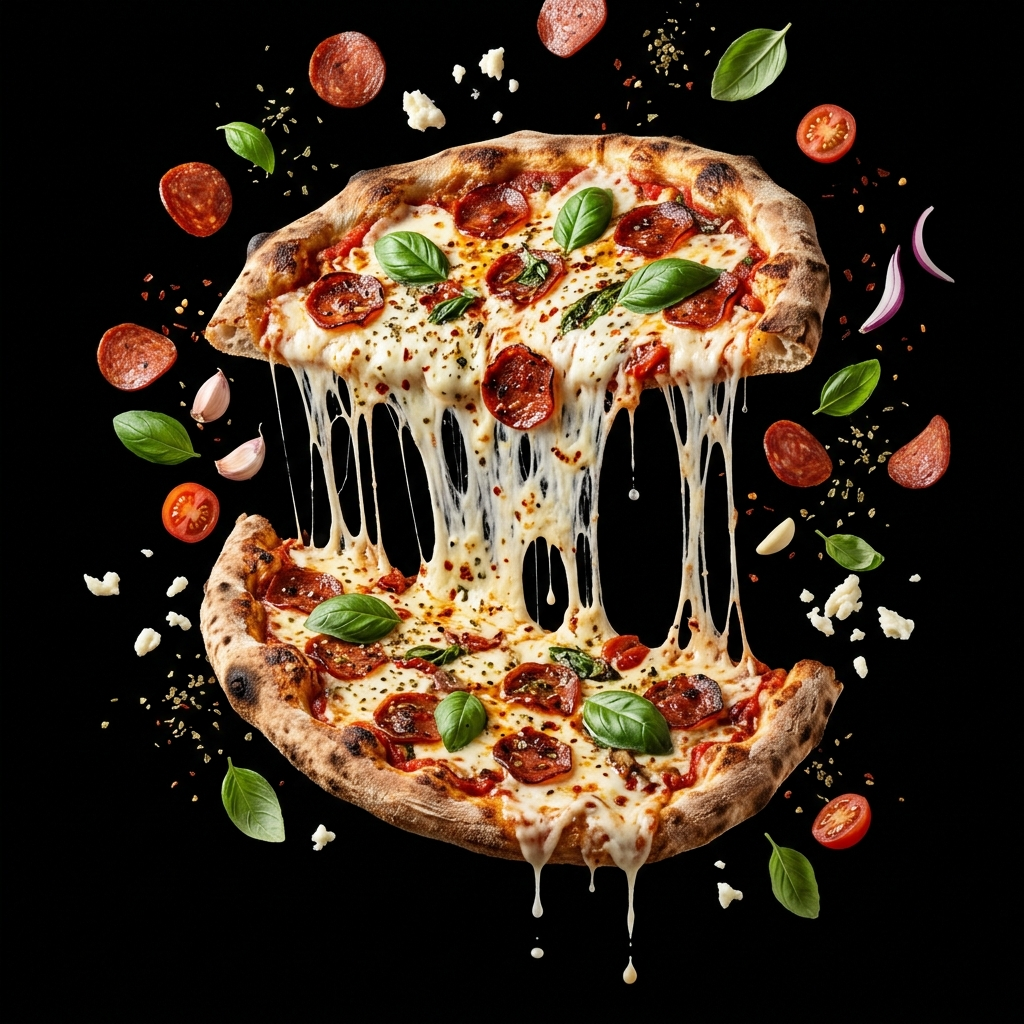
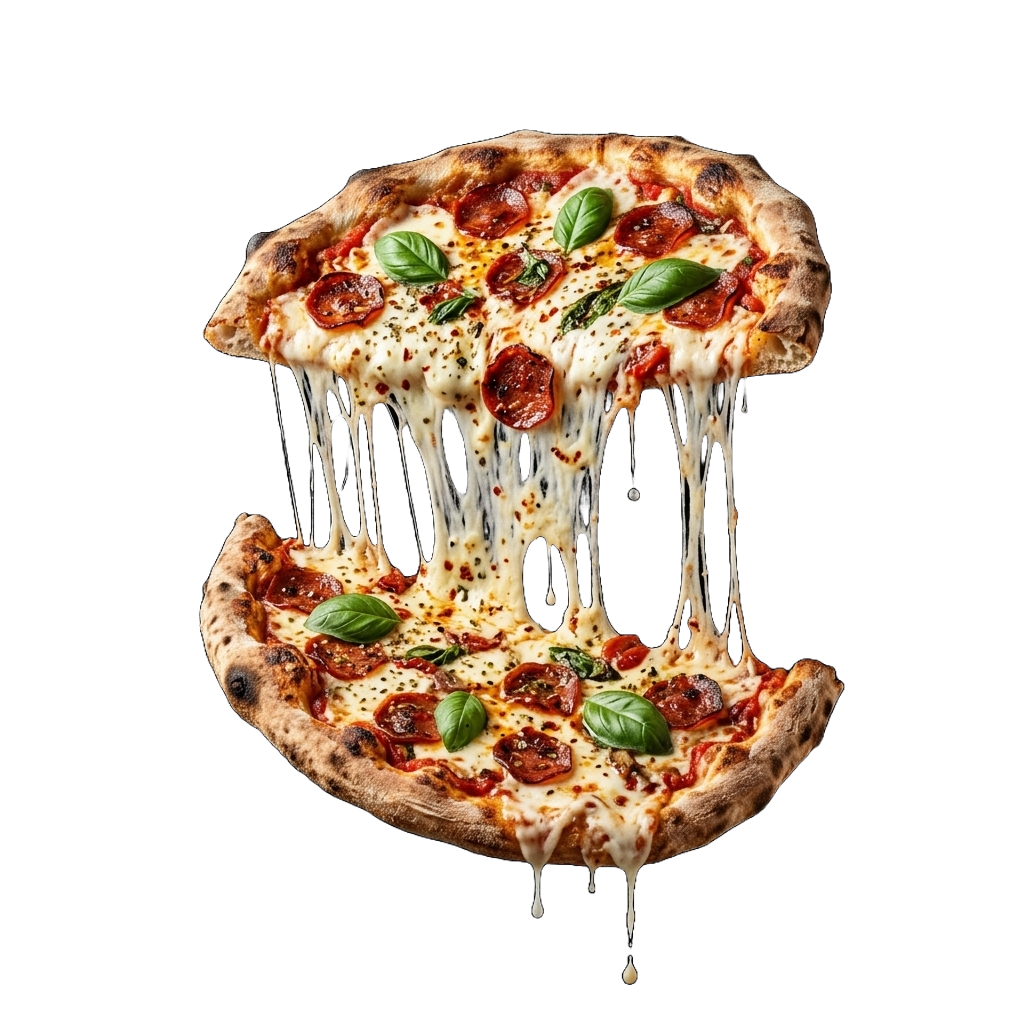
🎨 style: update hero pizza image to high quality transparent cutout

diff --git a/src/app/page.tsx b/src/app/page.tsx
@@ -119,9 +119,8 @@ function Hero() {
       </div>
       {/* Center Content */}
       <div className="relative z-10 max-w-[1280px] mx-auto px-6 flex flex-col items-center text-center">
-        {/* We use black bg image with mix-blend-mode: screen to blend perfectly */}
-        <div className="relative w-[min(80vw,520px)] aspect-square bg-black rounded-full overflow-hidden border border-black shadow-inner">
-          <Image src="/hero-pizza.png" alt="Casa Presto Hero Pizza" fill className="object-cover blend-screen" priority sizes="(max-width:768px) 80vw, 520px" />
+        <div className="relative w-[min(80vw,520px)] aspect-square">
+          <Image src="/hero-pizza.png" alt="Casa Presto Hero Pizza" fill className="object-contain drop-shadow-2xl" priority sizes="(max-width:768px) 80vw, 520px" />
         </div>
         <a href="#menu" className="btn-primary px-10 py-4 text-sm mt-6">Explorer le Menu</a>
       </div>